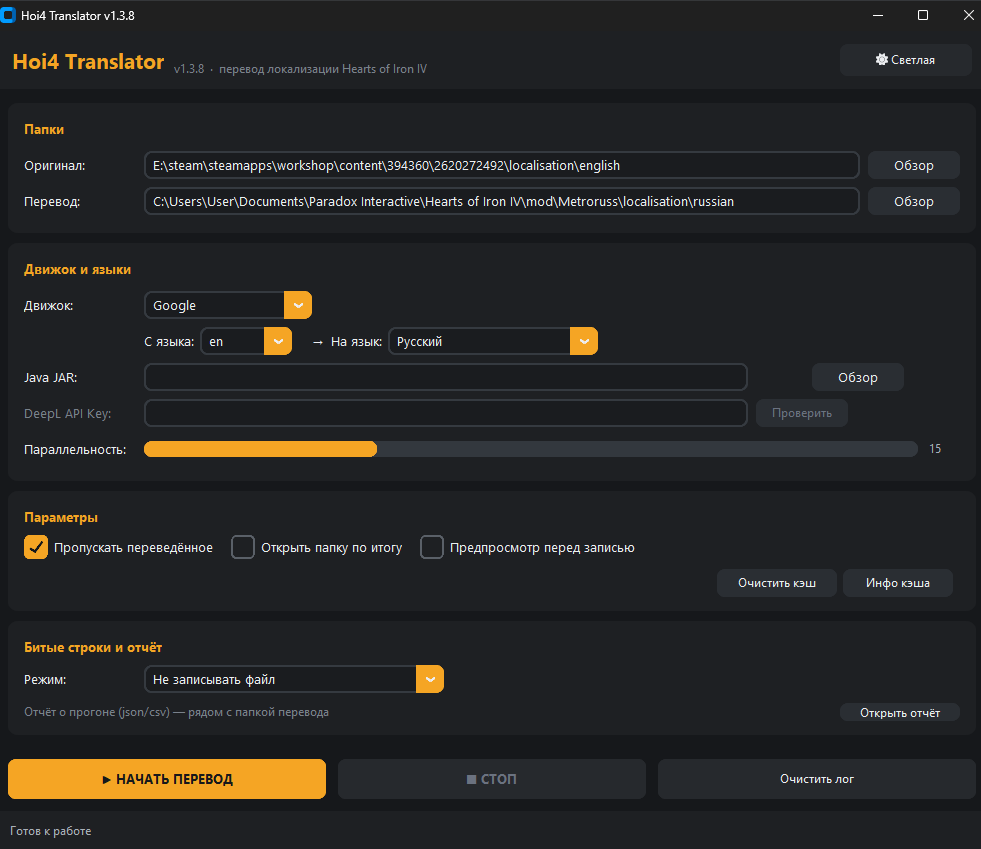
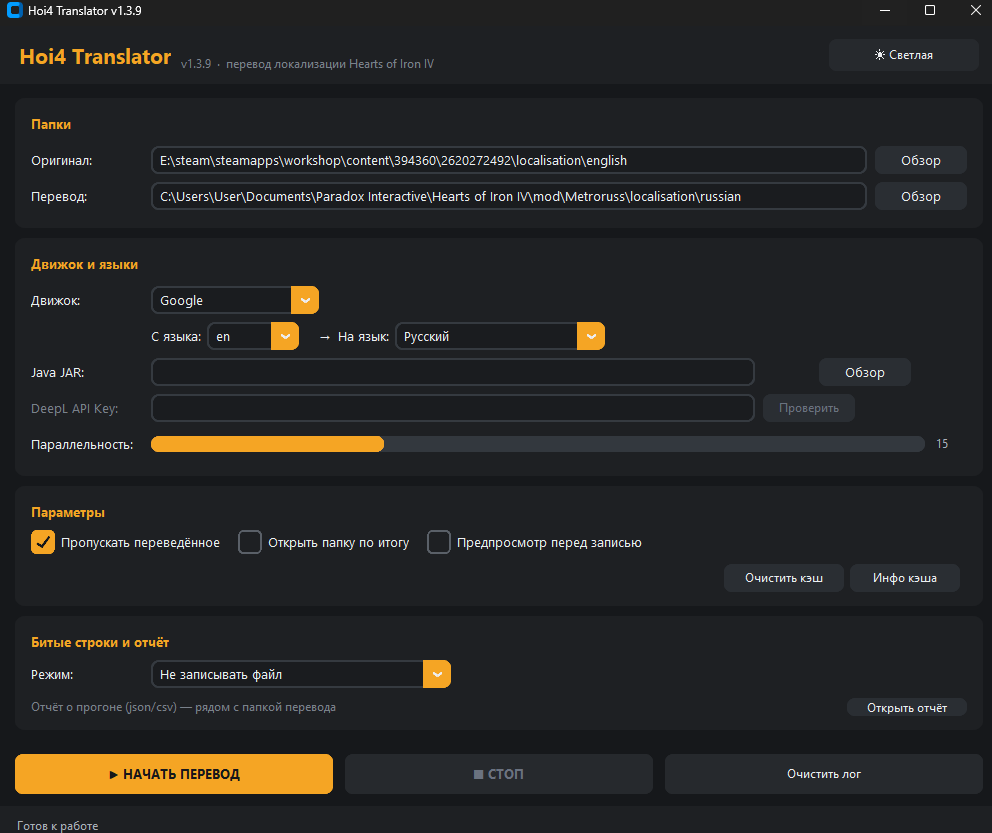
docs: скриншот 1.3.9 и блок «до/после» вместо GIF
- скриншот главного окна заменён на сборку 1.3.9;
- добавлен короткий пример «было/стало» с $STATE$, [GetPlayerTag], £icon,
  цветовыми кодами и экранированной кавычкой — нагляднее гифки и не устаревает;
- раздел о безопасности EXE приведён в соответствие с фактами: SHA256SUMS.txt
  прикладывается к релизу начиная со следующего тега, VirusTotal — если ссылка
  в релизе есть.

diff --git a/README.md b/README.md
@@ -28,24 +28,36 @@
 Антивирусы и SmartScreen иногда ругаются на сборки PyInstaller — это ожидаемо, но проверять всё равно нужно:
 
 * **Откуда файл.** EXE собирается GitHub Actions из открытого кода; ссылка на конкретный прогон CI указана в описании релиза.
-* **Контрольная сумма.** В описании каждого релиза есть SHA256. Сверьте локально:
+* **Контрольная сумма.** К релизу прикладывается `SHA256SUMS.txt` с хешами EXE и JAR. Сверьте локально:
   ```powershell
   certutil -hashfile Hoi4_Translator.exe SHA256
   ```
-  В Linux/macOS: `sha256sum` / `shasum -a 256`.
+  В Linux/macOS: `sha256sum -c SHA256SUMS.txt`. Если файла в релизе нет (старые версии), команда выше посчитает хеш, а сверить его можно с записью в описании релиза.
 * **SmartScreen.** Файл не подписан сертификатом (это платно), поэтому Windows покажет «Windows защитила ваш компьютер»: «Подробнее» → «Выполнить в любом случае».
-* **VirusTotal.** Ссылка на отчёт по конкретному релизу — в описании релиза.
+* **VirusTotal.** Если ссылка на отчёт есть в описании релиза — проверьте файл там; для сборок, запущенных из исходников, это не требуется.
 * **Совсем без доверия к бинарнику.** Код открыт под MIT — запустите из исходников (Python 3.9+), результат будет тот же.
 
-![Главное окно HoI4 Translator в тёмной теме](docs/images/main-window-dark.png)
+![Главное окно HoI4 Translator](docs/images/main-window-dark.png)
 
-<!--
-Осталось снять и положить в docs/images/, после чего раскомментировать:
+### Как выглядит результат
 
-![Светлая тема](docs/images/main-window-light.png)
-![Предпросмотр перевода](docs/images/preview.png)
-![Демонстрация перевода](docs/images/demo.gif)
--->
+Ключи не трогаются, маркеры остаются на месте — меняется только текст:
+
+```yml
+# было (en)
+l_english:
+ GER_rearm_the_rhine:0 "Rearm $STATE$ with £army_experience|1 and [GetPlayerTag] backing."
+ USA_war_goal_ussr:0 "§YDeclare war§! on $TARGET$ and gain §G+10%§! war support."
+ GER_day_of_infamy:0 "Our diplomats call it \"an incident\".\nThe press calls it war."
+
+# стало (ru)
+l_russian:
+ GER_rearm_the_rhine:0 "Перевооружите $STATE$ с помощью £army_experience|1 и поддержки [GetPlayerTag]."
+ USA_war_goal_ussr:0 "§YОбъявите войну§! государству $TARGET$ и получите §G+10%§! поддержки войны."
+ GER_day_of_infamy:0 "Наши дипломаты называют это \"инцидентом\".\nПресса называет это войной."
+```
+
+Если движок испортит хотя бы один маркер, строка попадёт в отчёт, а файл по умолчанию не запишется вовсе.
 
 ---
 

diff --git a/README.en.md b/README.en.md
@@ -21,28 +21,38 @@ Point the tool at a mod's `localisation` folder, pick a target language and an e
 | `hoi4_translator.jar` | JavaSim engine, put it next to the EXE (needs Java 11+) |
 | From source | Python 3.9+, `pip install -r requirements.txt`, then `python hoi4_translator.py` |
 
-![HoI4 Translator main window, dark theme](docs/images/main-window-dark.png)
+![HoI4 Translator main window](docs/images/main-window-dark.png)
 
-<!--
-Still to capture in docs/images/, then uncomment:
+### What the output looks like
 
-![Light theme](docs/images/main-window-light.png)
-![Translation preview](docs/images/preview.png)
-![Demo](docs/images/demo.gif)
--->
+Keys are never touched and markers survive — only the text changes:
+
+```yml
+# before (en)
+l_english:
+ GER_rearm_the_rhine:0 "Rearm $STATE$ with £army_experience|1 and [GetPlayerTag] backing."
+ USA_war_goal_ussr:0 "§YDeclare war§! on $TARGET$ and gain §G+10%§! war support."
+
+# after (ru)
+l_russian:
+ GER_rearm_the_rhine:0 "Перевооружите $STATE$ с помощью £army_experience|1 и поддержки [GetPlayerTag]."
+ USA_war_goal_ussr:0 "§YОбъявите войну§! государству $TARGET$ и получите §G+10%§! поддержки войны."
+```
+
+If an engine mangles a single marker, the line is reported, and by default the whole file is not written at all.
 
 ## 🔒 Is the EXE safe to run?
 
 Antivirus and SmartScreen warnings on PyInstaller builds are normal, but you should still verify:
 
 * **Where it came from.** The EXE is built by GitHub Actions from this repository; each release notes which CI run produced it.
-* **Checksum.** Every release lists a SHA256 — check it locally:
+* **Checksum.** Releases ship a `SHA256SUMS.txt` with the hashes of the EXE and the JAR — check it locally:
   ```powershell
   certutil -hashfile Hoi4_Translator.exe SHA256
   ```
-  or `sha256sum` / `shasum -a 256` on Linux/macOS.
+  or `sha256sum -c SHA256SUMS.txt` on Linux/macOS.
 * **SmartScreen.** The binary is not code-signed (that costs money), so Windows will warn you: "More info" → "Run anyway".
-* **VirusTotal.** The release notes link a scan report for that exact build.
+* **VirusTotal.** If the release notes link a scan report, check the file there; running from source needs none of this.
 * **No trust in binaries at all.** MIT source is right here — run it with Python 3.9+ instead.
 
 ## ✨ What it does
